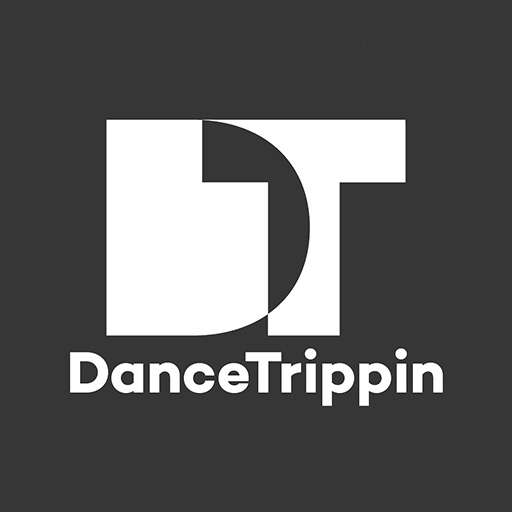
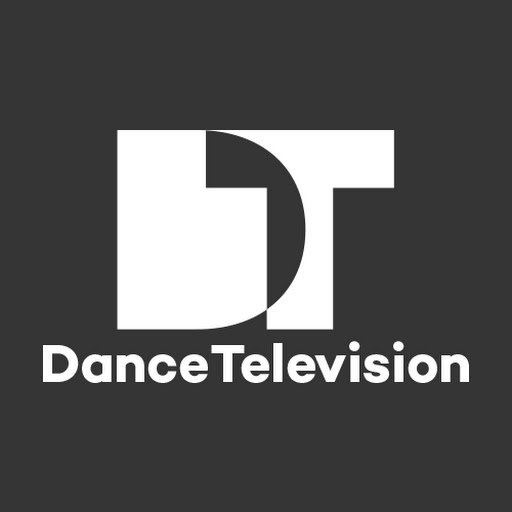
Rewrite to DanceTelevision

Changed region(s): [[0.0625, 0.2188, 0.9375, 0.8125], [0.5625, 0.5, 0.5938, 0.5625]]

diff --git a/Contents/Code/__init__.py b/Contents/Code/__init__.py
@@ -1,6 +1,6 @@
-TITLE = 'DanceTrippin TV'
-ART = 'art-default.jpg'
-ICON = 'icon-default.jpg'
+TITLE = "DanceTelevision"
+ART = "art-default.jpg"
+ICON = "icon-default.jpg"
 
 ####################################################################################################
 def Start():
@@ -8,15 +8,22 @@ def Start():
 	ObjectContainer.title1 = TITLE
 	DirectoryObject.thumb = R(ICON)
 	HTTP.CacheTime = CACHE_1HOUR
-	HTTP.Headers['User-Agent'] = 'Mozilla/5.0 (Macintosh; Intel Mac OS X 10_12_4) AppleWebKit/537.36 (KHTML, like Gecko) Chrome/57.0.2987.133 Safari/537.36'
+	HTTP.Headers['User-Agent'] = "Mozilla/5.0 (Macintosh; Intel Mac OS X 10_13_3) AppleWebKit/604.5.6 (KHTML, like Gecko) Version/11.0.3 Safari/604.5.6"
 
 ####################################################################################################
-@handler('/video/dancetrippin', TITLE, art=ART, thumb=ICON)
+@handler('/video/dancetelevision', TITLE, art=ART, thumb=ICON)
 def MainMenu():
 
 	oc = ObjectContainer()
+	html = HTML.ElementFromURL('http://www.dancetelevision.net/videos')
 
-	for genre in HTML.ElementFromURL('http://www.dancetrippin.tv/videos/dj-sets').xpath('//div[@id="genrelist"]/div[@class="genre"]/a/text()'):
+	for genre in html.xpath('//div[@id="genrelist"]/div[@class="genre"]/a/text()'):
+
+		videos = html.xpath('//div[@id="grid-content"]//a[@class="filter" and contains(., "{}")]/parent::div/parent::div/div[@class="image"]'.format(genre))
+
+		if len(videos) < 1:
+			Log(" --> Genre '{}' does not contain videos, skipping.".format(genre))
+			continue
 
 		oc.add(DirectoryObject(
 			key = Callback(Videos, genre=genre),
@@ -26,19 +33,19 @@ def MainMenu():
 	return oc
 
 ####################################################################################################
-@route('/video/dancetrippin/videos')
+@route('/video/dancetelevision/videos')
 def Videos(genre):
 
 	oc = ObjectContainer(title2=genre)
 
-	for video in HTML.ElementFromURL('http://www.dancetrippin.tv/videos/dj-sets').xpath('//div[@id="grid-content"]//a[@class="filter" and contains(., "%s")]/parent::div/parent::div/div[@class="image"]' % (genre)):
+	for video in HTML.ElementFromURL('http://www.dancetelevision.net/videos').xpath('//div[@id="grid-content"]//a[@class="filter" and contains(., "{}")]/parent::div/parent::div/div[@class="image"]'.format(genre)):
 
 		title = video.xpath('./a/@title')[0]
-		url = 'http://www.dancetrippin.tv%s' % (video.get('href'))
+		url = 'http://www.dancetelevision.net{}'.format(video.get('href'))
 		thumb = video.get('style').split('background-image: url(')[-1].split(')')[0].replace('-thumb', '')
 
 		if not thumb.startswith('http://'):
-			thumb = 'http://www.dancetrippin.tv%s' % thumb
+			thumb = 'http://www.dancetelevision.net{}'.format(thumb)
 
 		oc.add(VideoClipObject(
 			url = url,
@@ -47,6 +54,6 @@ def Videos(genre):
 		))
 
 	if len(oc) < 1:
-		return ObjectContainer('Empty', 'This directory is empty')
+		return ObjectContainer(header="Empty", message="This directory is empty")
 	else:
 		return oc
